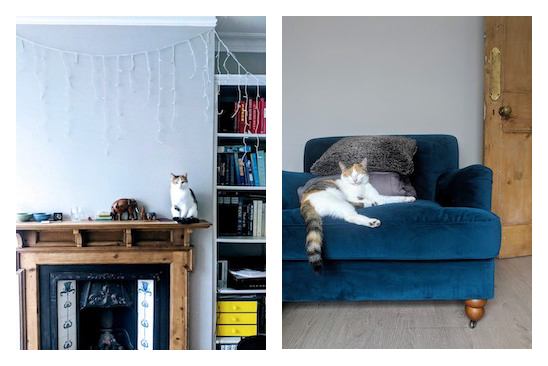
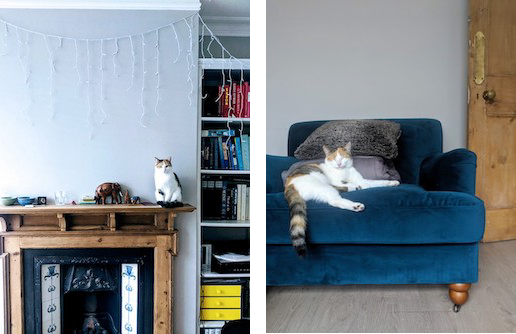
Don't have a bounding margin

diff --git a/main.go b/main.go
@@ -48,8 +48,8 @@ func run(files []string) error {
 
 	margin := calculateMargin(images)
 
-	yMax := maxHeight(images) + (margin * 2)                // margin at top and bottom
-	xMax := sumWidths(images) + (margin * (len(files) + 1)) // margin before each image, and one at the end
+	yMax := maxHeight(images)
+	xMax := sumWidths(images) + (margin * (len(files) - 1)) // margin between each image
 
 	outputImg := image.NewRGBA64(image.Rect(0, 0, xMax, yMax))
 
@@ -126,8 +126,8 @@ func sumWidths(images []image.Image) (sum int) {
 }
 
 func calculateOffsets(images []image.Image, margin int) (offsets []image.Point) {
-	yOffset := margin
-	xOffset := margin
+	yOffset := 0
+	xOffset := 0
 	offsets = make([]image.Point, len(images))
 	for i, img := range images {
 		offsets[i] = image.Point{

diff --git a/README.md b/README.md
@@ -40,5 +40,4 @@ At [work](https://monzo.com/), I often need to post a series of screenshots of t
 
 ## TODO
 
-- [ ]: Remove bounding margin
 - [ ]: Add a `--col` flag, to specify the number of columns in the grid
